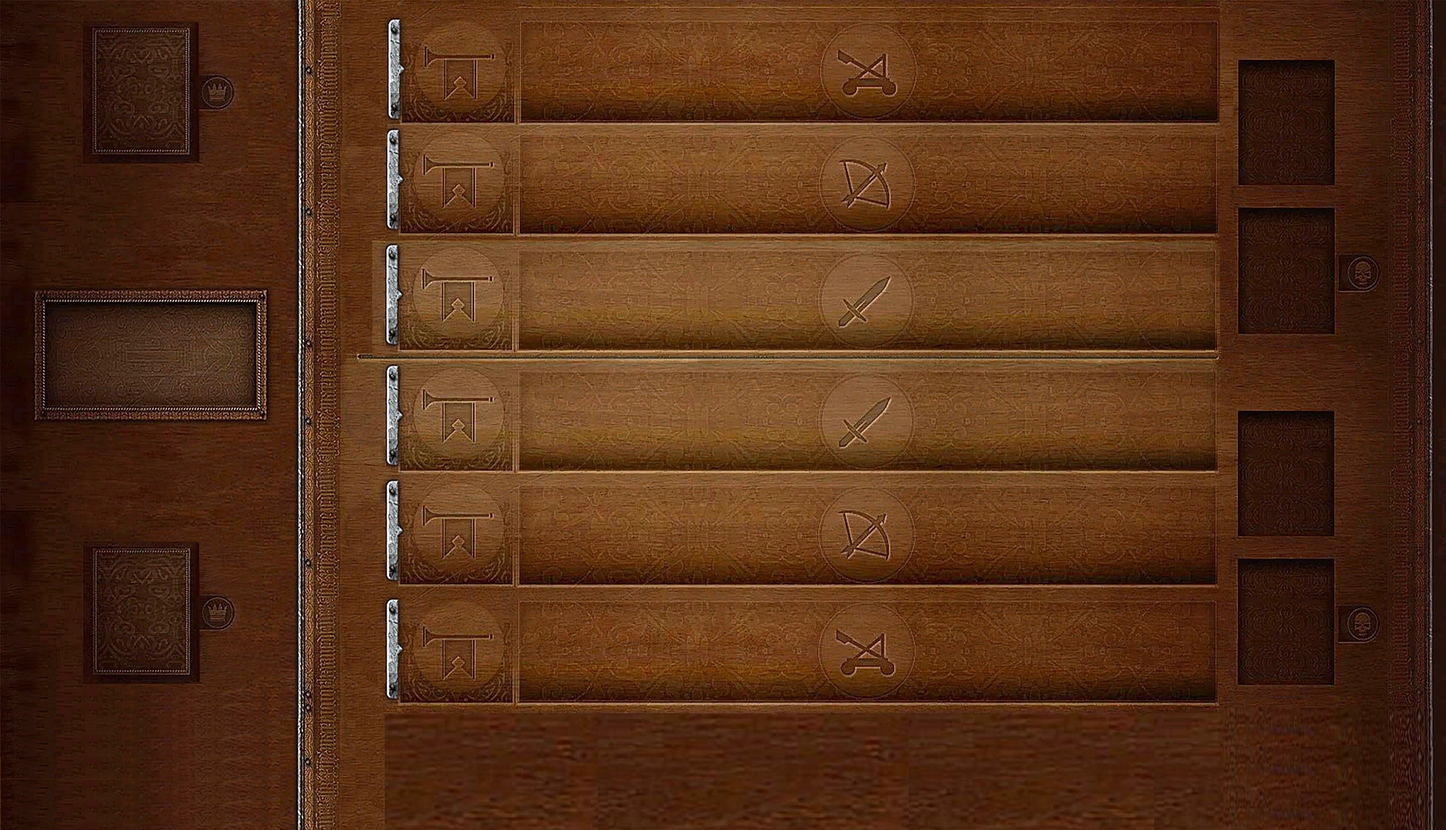
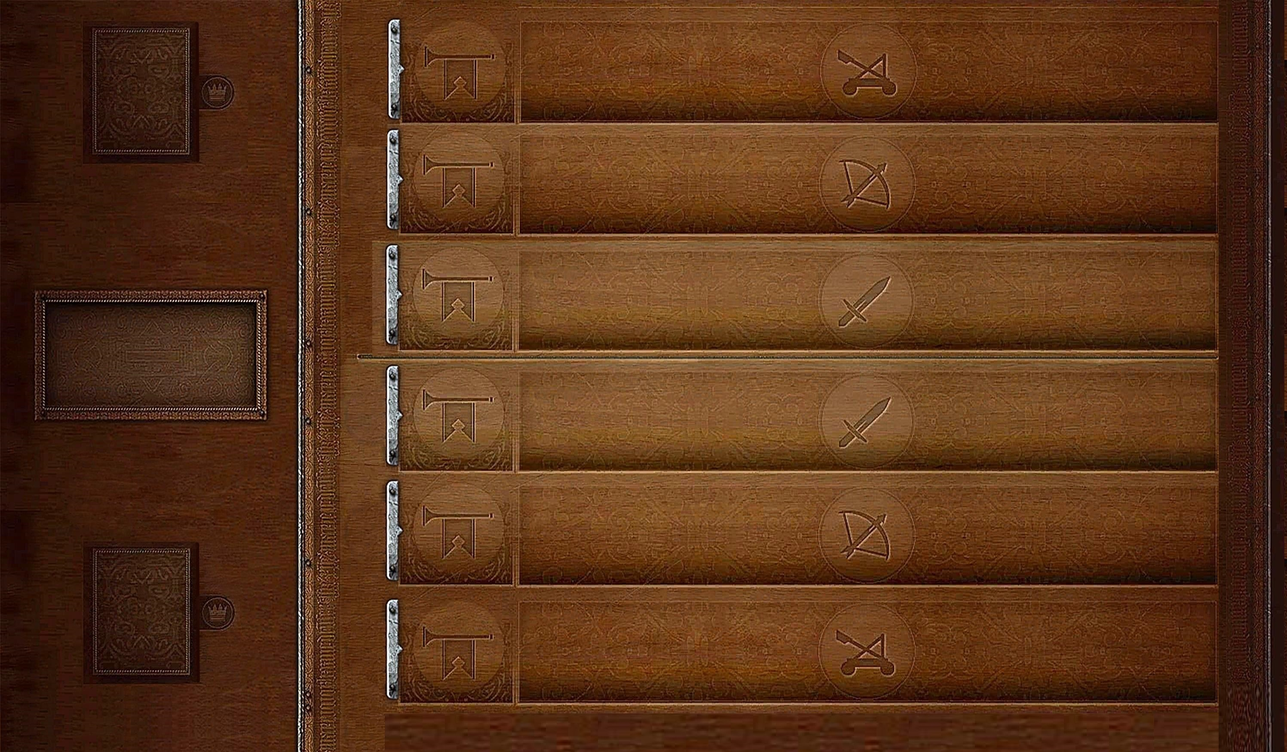
zmiana funkcjonalnosci

diff --git a/Gwent App/Form2.Designer.cs b/Gwent App/Form2.Designer.cs
@@ -1,14 +1,14 @@
 namespace Gwent_App
 {
-    partial class Form1
+    partial class Form2
     {
         /// <summary>
-        ///  Required designer variable.
+        /// Required designer variable.
         /// </summary>
         private System.ComponentModel.IContainer components = null;
 
         /// <summary>
-        ///  Clean up any resources being used.
+        /// Clean up any resources being used.
         /// </summary>
         /// <param name="disposing">true if managed resources should be disposed; otherwise, false.</param>
         protected override void Dispose(bool disposing)
@@ -23,8 +23,8 @@
         #region Windows Form Designer generated code
 
         /// <summary>
-        ///  Required method for Designer support - do not modify
-        ///  the contents of this method with the code editor.
+        /// Required method for Designer support - do not modify
+        /// the contents of this method with the code editor.
         /// </summary>
         private void InitializeComponent()
         {
@@ -55,6 +55,12 @@
             pictureBoxDrugiPunktGracz1 = new PictureBox();
             pictureBoxPierwszyPunktGracz2 = new PictureBox();
             pictureBoxDrugiPunktGracz2 = new PictureBox();
+            pictureBoxUsunieteKartyGracz1 = new PictureBox();
+            pictureBoxUsunieteKartyGracz2 = new PictureBox();
+            pictureBoxZdjecieWszystkichKartGracza1 = new PictureBox();
+            pictureBoxZdjecieWszystkichKartGracza2 = new PictureBox();
+            labelLiczbaKartPozaGraGracza1 = new Label();
+            labelLiczbaKartPozaGraGracza2 = new Label();
             panelRoguOblezniczeGracz1 = new Panel();
             panelRoguDystansGracz1 = new Panel();
             panelRoguZwarcieGracz1 = new Panel();
@@ -69,6 +75,10 @@
             ((System.ComponentModel.ISupportInitialize)pictureBoxDrugiPunktGracz1).BeginInit();
             ((System.ComponentModel.ISupportInitialize)pictureBoxPierwszyPunktGracz2).BeginInit();
             ((System.ComponentModel.ISupportInitialize)pictureBoxDrugiPunktGracz2).BeginInit();
+            ((System.ComponentModel.ISupportInitialize)pictureBoxUsunieteKartyGracz1).BeginInit();
+            ((System.ComponentModel.ISupportInitialize)pictureBoxUsunieteKartyGracz2).BeginInit();
+            ((System.ComponentModel.ISupportInitialize)pictureBoxZdjecieWszystkichKartGracza1).BeginInit();
+            ((System.ComponentModel.ISupportInitialize)pictureBoxZdjecieWszystkichKartGracza2).BeginInit();
             SuspendLayout();
             // 
             // backgroundPictureBox
@@ -286,6 +296,56 @@
             pictureBoxDrugiPunktGracz2.TabIndex = 29;
             pictureBoxDrugiPunktGracz2.TabStop = false;
             // 
+            // pictureBoxUsunieteKartyGracz1
+            // 
+            pictureBoxUsunieteKartyGracz1.Location = new Point(1391, 611);
+            pictureBoxUsunieteKartyGracz1.Name = "pictureBoxUsunieteKartyGracz1";
+            pictureBoxUsunieteKartyGracz1.Size = new Size(100, 133);
+            pictureBoxUsunieteKartyGracz1.TabIndex = 30;
+            pictureBoxUsunieteKartyGracz1.TabStop = false;
+            // 
+            // pictureBoxUsunieteKartyGracz2
+            // 
+            pictureBoxUsunieteKartyGracz2.Location = new Point(1391, 224);
+            pictureBoxUsunieteKartyGracz2.Name = "pictureBoxUsunieteKartyGracz2";
+            pictureBoxUsunieteKartyGracz2.Size = new Size(100, 133);
+            pictureBoxUsunieteKartyGracz2.TabIndex = 31;
+            pictureBoxUsunieteKartyGracz2.TabStop = false;
+            // 
+            // pictureBoxZdjecieWszystkichKartGracza1
+            // 
+            pictureBoxZdjecieWszystkichKartGracza1.Location = new Point(1391, 448);
+            pictureBoxZdjecieWszystkichKartGracza1.Name = "pictureBoxZdjecieWszystkichKartGracza1";
+            pictureBoxZdjecieWszystkichKartGracza1.Size = new Size(100, 133);
+            pictureBoxZdjecieWszystkichKartGracza1.TabIndex = 32;
+            pictureBoxZdjecieWszystkichKartGracza1.TabStop = false;
+            // 
+            // pictureBoxZdjecieWszystkichKartGracza2
+            // 
+            pictureBoxZdjecieWszystkichKartGracza2.Location = new Point(1391, 67);
+            pictureBoxZdjecieWszystkichKartGracza2.Name = "pictureBoxZdjecieWszystkichKartGracza2";
+            pictureBoxZdjecieWszystkichKartGracza2.Size = new Size(100, 133);
+            pictureBoxZdjecieWszystkichKartGracza2.TabIndex = 33;
+            pictureBoxZdjecieWszystkichKartGracza2.TabStop = false;
+            // 
+            // labelLiczbaKartPozaGraGracza1
+            // 
+            labelLiczbaKartPozaGraGracza1.AutoSize = true;
+            labelLiczbaKartPozaGraGracza1.Location = new Point(1519, 504);
+            labelLiczbaKartPozaGraGracza1.Name = "labelLiczbaKartPozaGraGracza1";
+            labelLiczbaKartPozaGraGracza1.Size = new Size(13, 15);
+            labelLiczbaKartPozaGraGracza1.TabIndex = 34;
+            labelLiczbaKartPozaGraGracza1.Text = "0";
+            // 
+            // labelLiczbaKartPozaGraGracza2
+            // 
+            labelLiczbaKartPozaGraGracza2.AutoSize = true;
+            labelLiczbaKartPozaGraGracza2.Location = new Point(1519, 129);
+            labelLiczbaKartPozaGraGracza2.Name = "labelLiczbaKartPozaGraGracza2";
+            labelLiczbaKartPozaGraGracza2.Size = new Size(13, 15);
+            labelLiczbaKartPozaGraGracza2.TabIndex = 35;
+            labelLiczbaKartPozaGraGracza2.Text = "0";
+            // 
             // panelRoguOblezniczeGracz1
             // 
             panelRoguOblezniczeGracz1.Location = new Point(444, 649);
@@ -347,6 +407,12 @@
             Controls.Add(panelRoguZwarcieGracz1);
             Controls.Add(panelRoguDystansGracz1);
             Controls.Add(panelRoguOblezniczeGracz1);
+            Controls.Add(labelLiczbaKartPozaGraGracza2);
+            Controls.Add(labelLiczbaKartPozaGraGracza1);
+            Controls.Add(pictureBoxZdjecieWszystkichKartGracza2);
+            Controls.Add(pictureBoxZdjecieWszystkichKartGracza1);
+            Controls.Add(pictureBoxUsunieteKartyGracz2);
+            Controls.Add(pictureBoxUsunieteKartyGracz1);
             Controls.Add(pictureBoxDrugiPunktGracz2);
             Controls.Add(pictureBoxDrugiPunktGracz1);
             Controls.Add(pictureBoxPierwszyPunktGracz1);
@@ -384,6 +450,10 @@
             ((System.ComponentModel.ISupportInitialize)pictureBoxDrugiPunktGracz1).EndInit();
             ((System.ComponentModel.ISupportInitialize)pictureBoxPierwszyPunktGracz2).EndInit();
             ((System.ComponentModel.ISupportInitialize)pictureBoxDrugiPunktGracz2).EndInit();
+            ((System.ComponentModel.ISupportInitialize)pictureBoxUsunieteKartyGracz1).EndInit();
+            ((System.ComponentModel.ISupportInitialize)pictureBoxUsunieteKartyGracz2).EndInit();
+            ((System.ComponentModel.ISupportInitialize)pictureBoxZdjecieWszystkichKartGracza1).EndInit();
+            ((System.ComponentModel.ISupportInitialize)pictureBoxZdjecieWszystkichKartGracza2).EndInit();
             ResumeLayout(false);
             PerformLayout();
         }
@@ -416,8 +486,14 @@
         private PictureBox pictureBoxDrugiPunktGracz1;
         private PictureBox pictureBoxPierwszyPunktGracz2;
         private PictureBox pictureBoxDrugiPunktGracz2;
+        private PictureBox pictureBoxUsunieteKartyGracz1;
+        private PictureBox pictureBoxUsunieteKartyGracz2;
+        private PictureBox pictureBoxZdjecieWszystkichKartGracza1;
+        private PictureBox pictureBoxZdjecieWszystkichKartGracza2;
+        private Label labelLiczbaKartPozaGraGracza1;
+        private Label labelLiczbaKartPozaGraGracza2;
         private Panel panelRoguOblezniczeGracz1;
-        private Panel panelRoguDystansGracz1; 
+        private Panel panelRoguDystansGracz1;
         private Panel panelRoguZwarcieGracz1;
         private Panel panelRoguZwarcieGracz2;
         private Panel panelRoguDystansGracz2;
